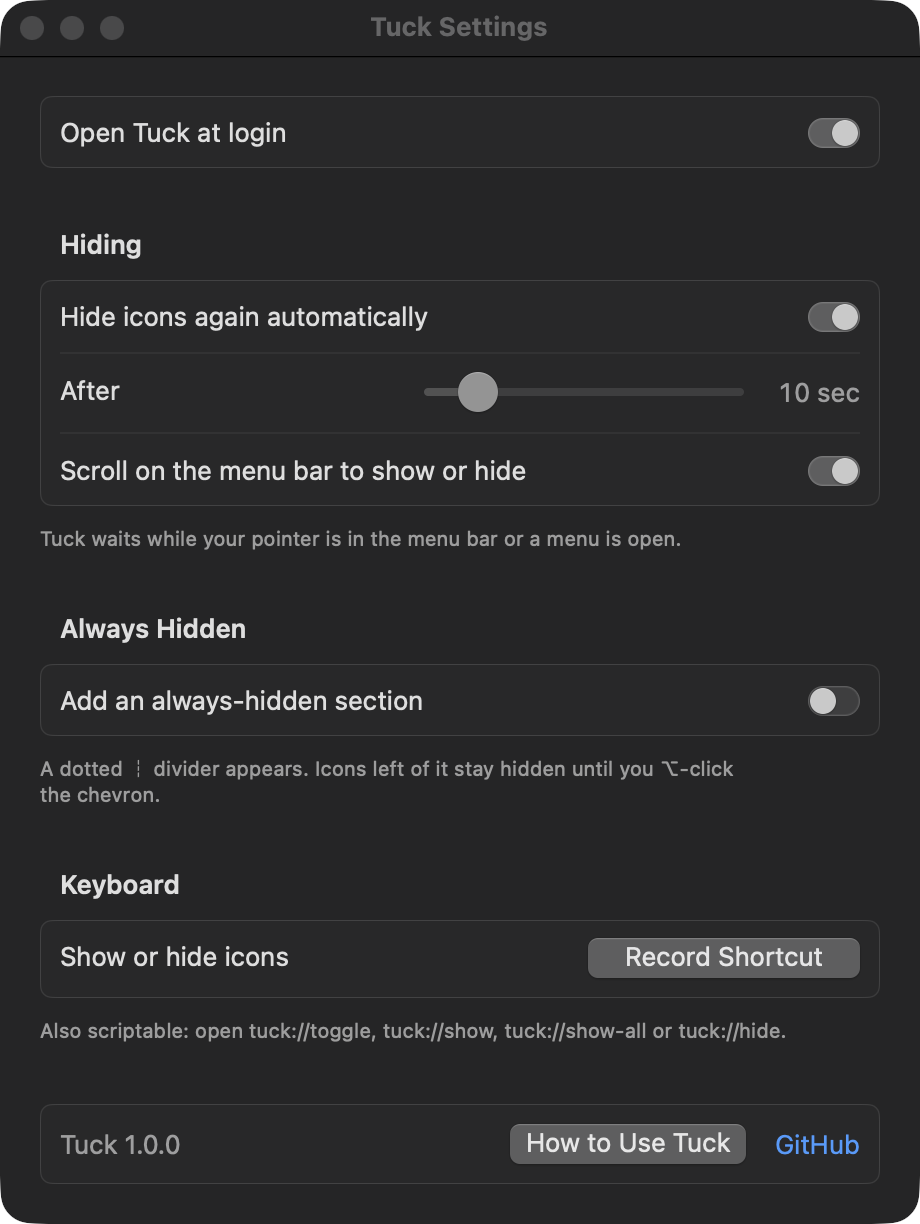
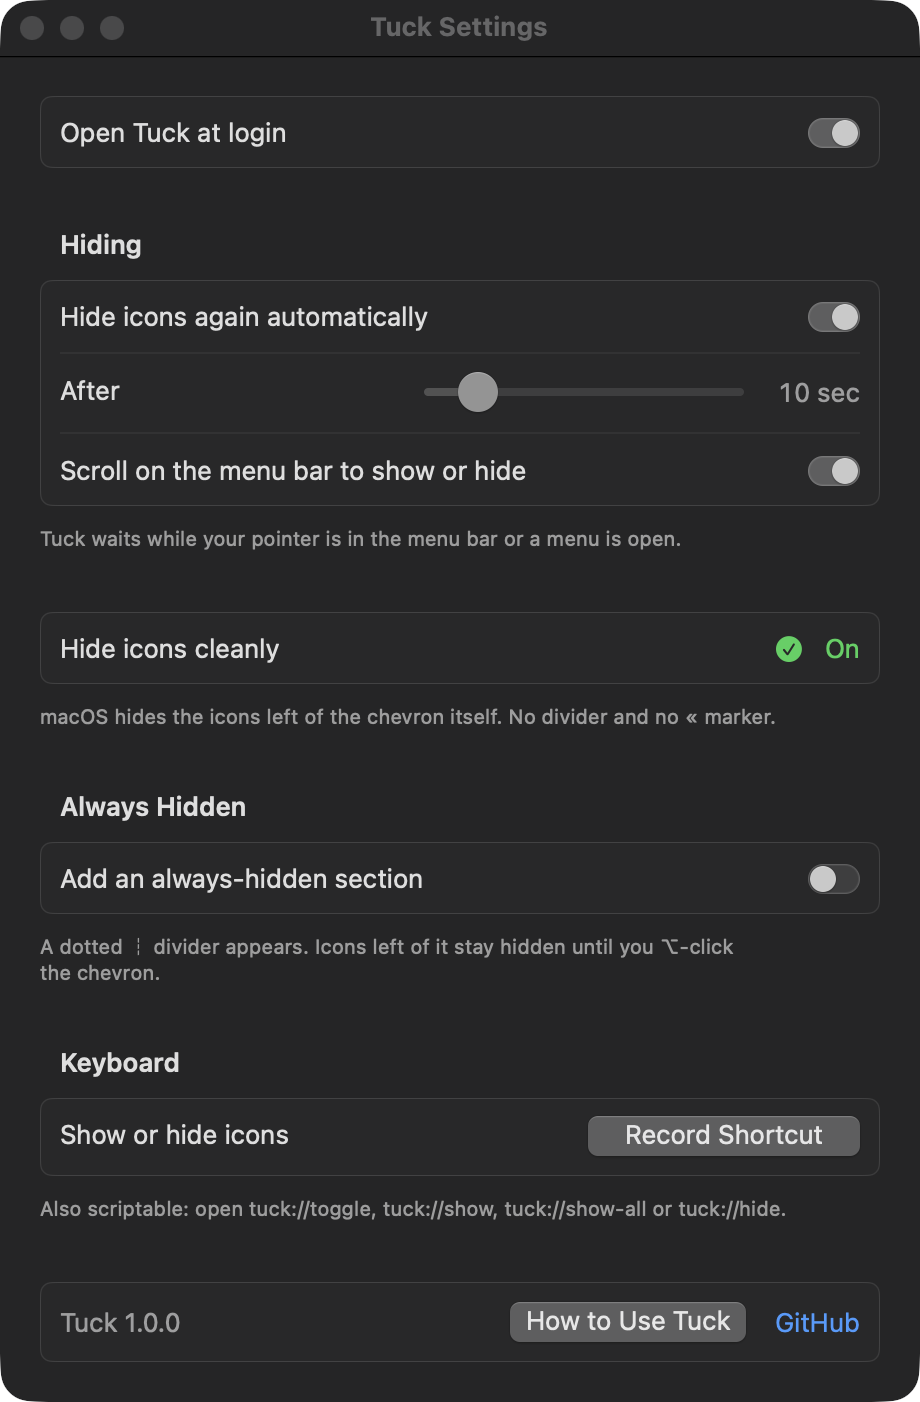
Settings: drop divider-line hint when hiding natively; refresh screenshot

diff --git a/Sources/Tuck/SettingsView.swift b/Sources/Tuck/SettingsView.swift
@@ -51,7 +51,9 @@ struct SettingsView: View {
             } header: {
                 Text("Hiding")
             } footer: {
-                Text("Tuck waits while your pointer is in the menu bar or a menu is open. Turn the divider line on while you arrange icons, or ⌃-click the chevron.")
+                Text(menusReadable && NativeHider.isSupported
+                     ? "Tuck waits while your pointer is in the menu bar or a menu is open."
+                     : "Tuck waits while your pointer is in the menu bar or a menu is open. Turn the divider line on while you arrange icons, or ⌃-click the chevron.")
                     .font(.caption).foregroundStyle(.secondary)
                     .multilineTextAlignment(.leading)                    .frame(maxWidth: .infinity, alignment: .leading)
             }
